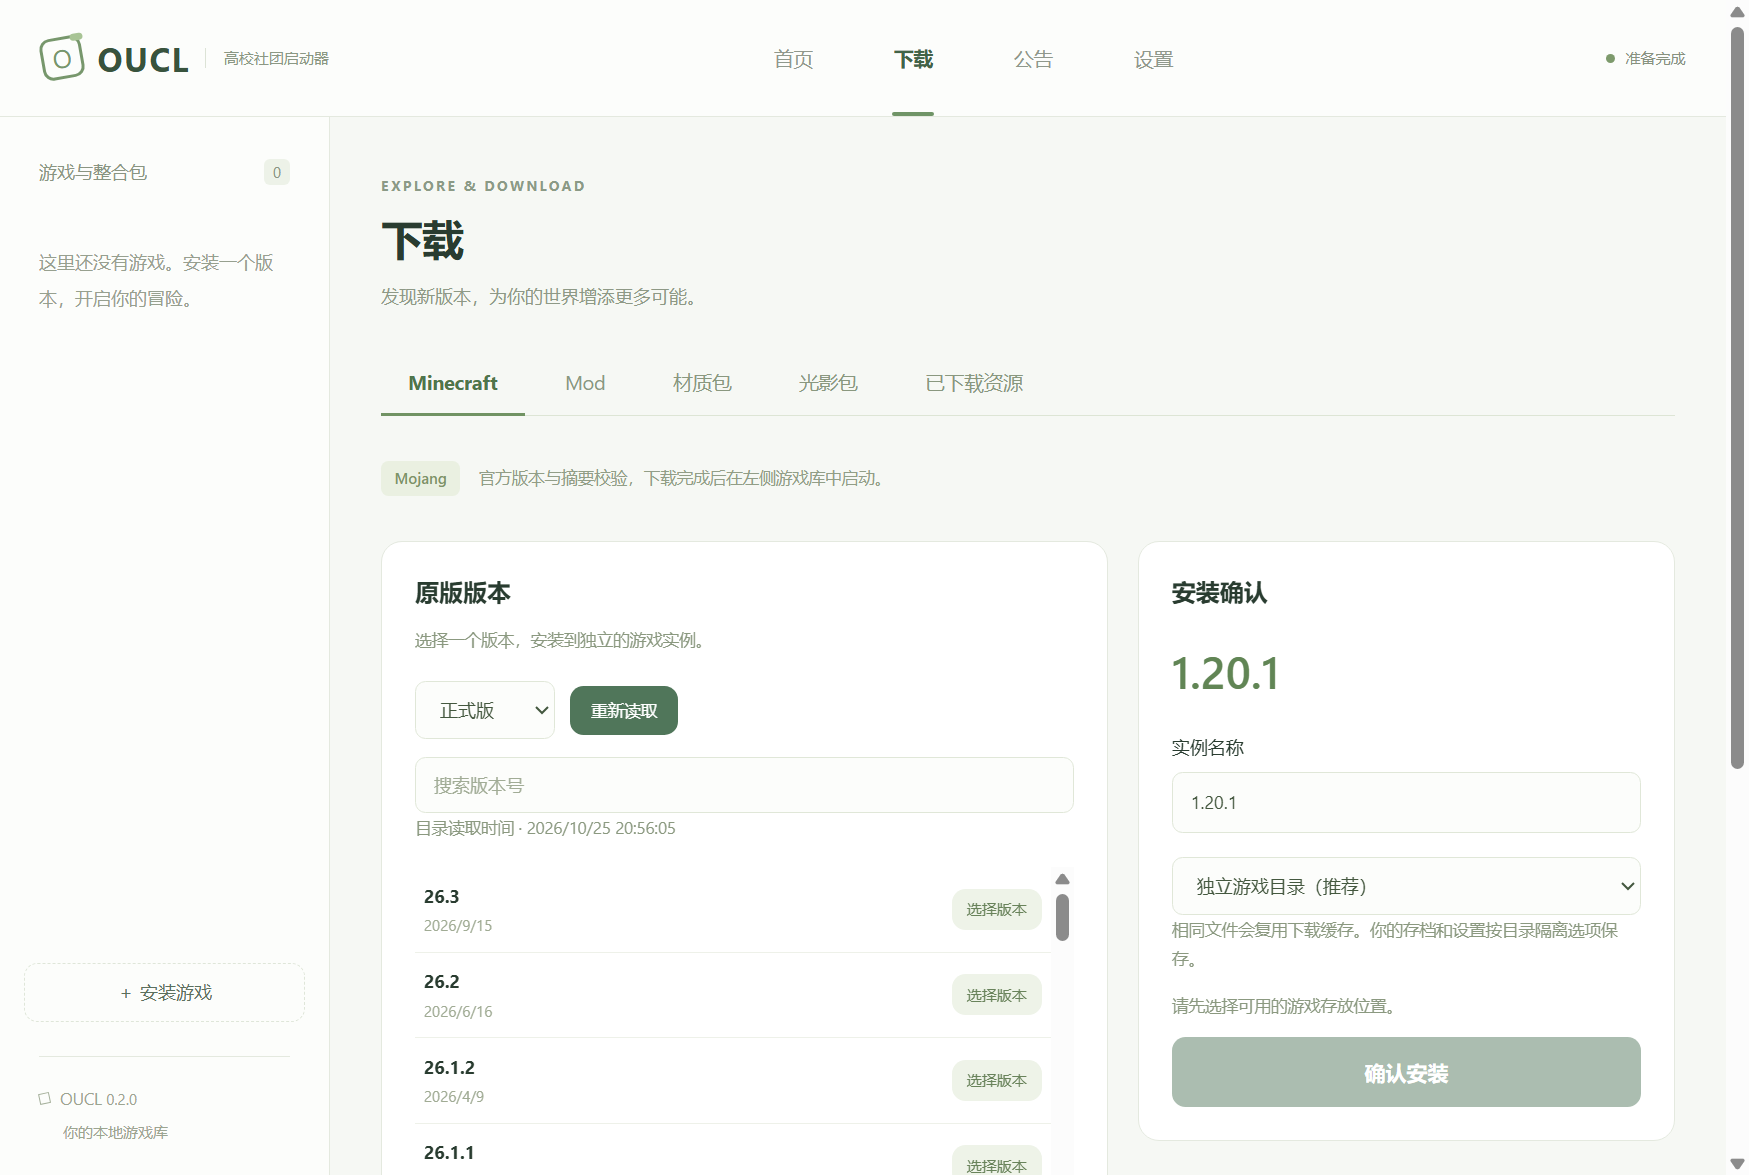
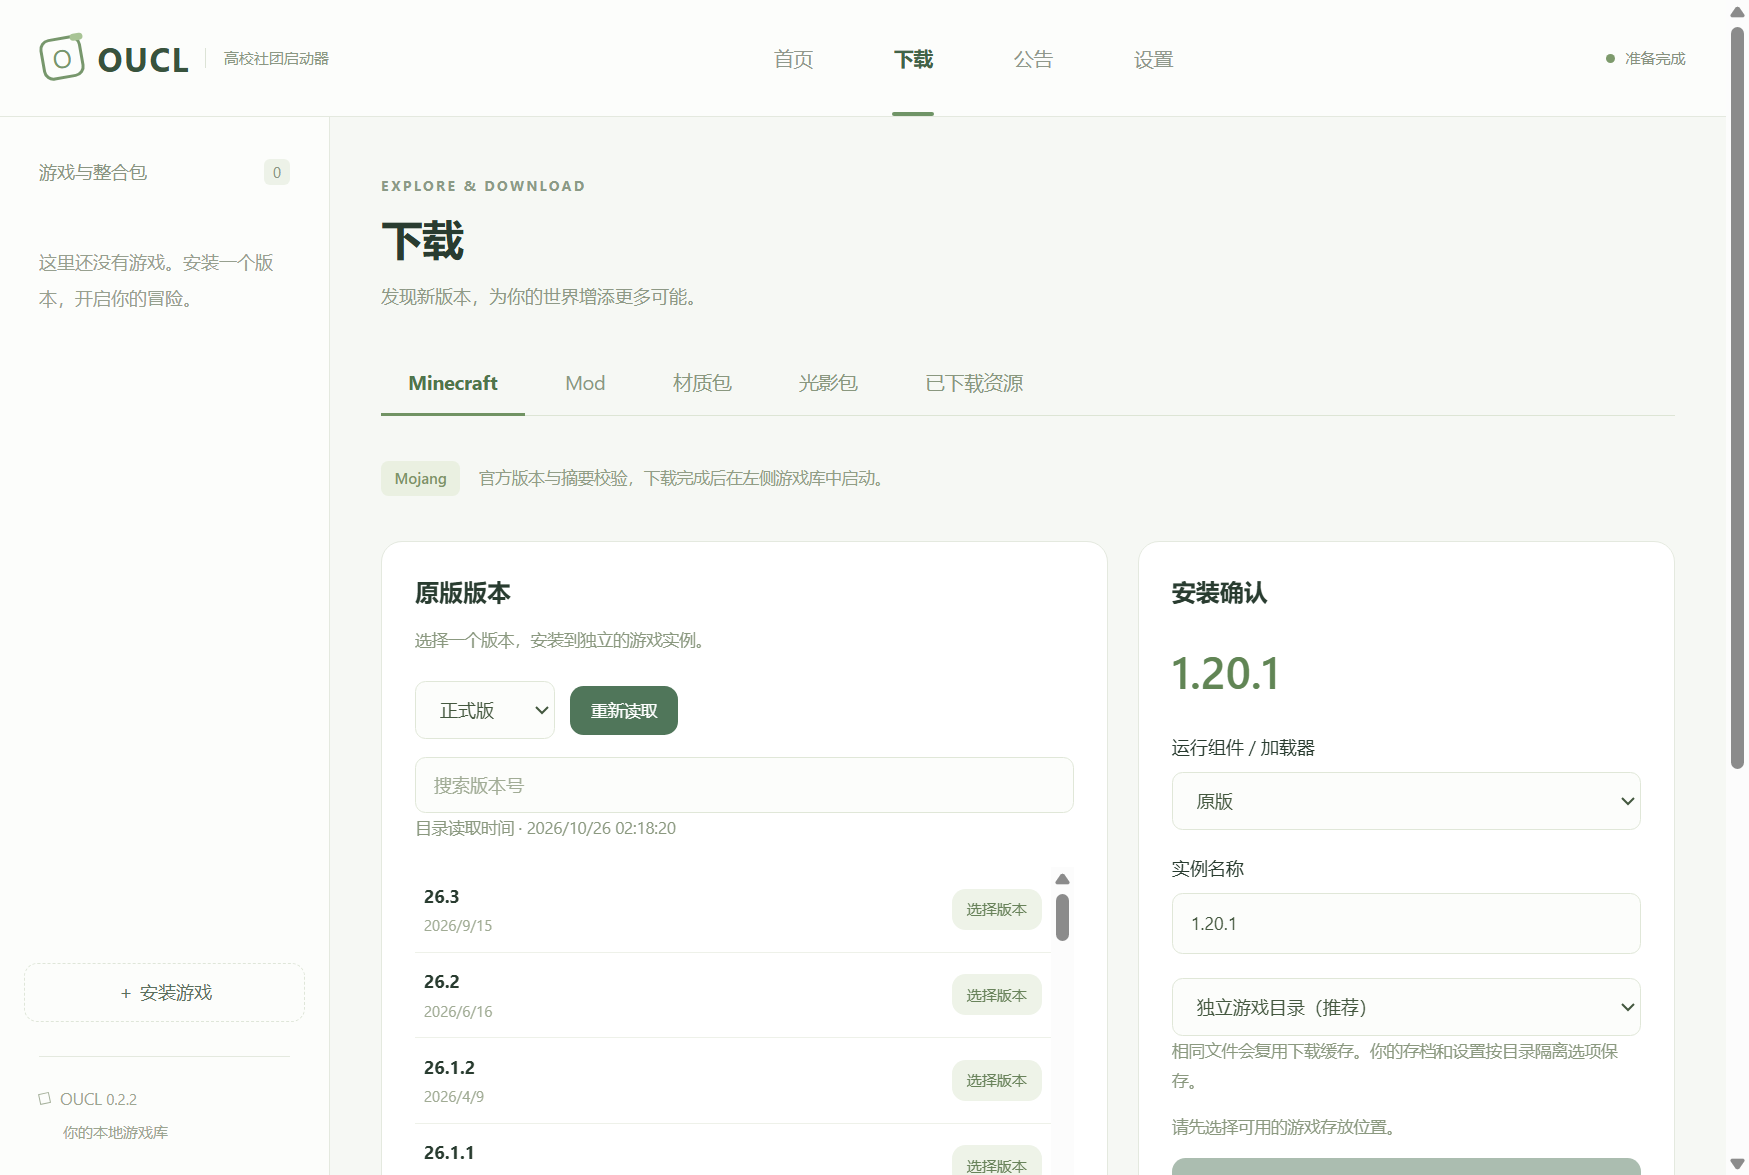
feat(ui): select Fabric and Quilt instances

Changed region(s): [[0.6484, 0.8272, 0.9571, 1.0], [0.6792, 0.674, 0.9262, 0.7966], [0.6792, 0.6128, 0.741, 0.6434]]

diff --git a/src/ui/App.tsx b/src/ui/App.tsx
@@ -32,6 +32,7 @@ export function App() {
   useEffect(() => { void state.refreshGame(); const timer = setInterval(() => { void state.refreshGame(); }, 2000); return () => { clearInterval(timer); }; }, [state.rootId, state.refreshGame]);
   const sessions = useGameSessions(has('game.v1'), state.rootId);
   const account = state.accounts.find(a => a.accountId === state.accountId); const instance = state.instances.find(i => i.instanceId === state.instanceId);
+  const loaderName = (id: string): string => { const value = state.instanceLoaders[id]; return !value || value.kind === 'vanilla' ? MESSAGES.uiVanilla : `${value.kind === 'fabric' ? 'Fabric' : value.kind === 'quilt' ? 'Quilt' : value.kind === 'forge' ? 'Forge' : 'NeoForge'} ${value.version}`; };
   const activeTasks = state.tasks.filter(t => !['completed', 'cancelled', 'failed', 'needsRecovery'].includes(t.state)).length;
   return <div className="app-shell">
     <header className="topbar"><div className="brand-lockup"><span className="brand-symbol">O<span /></span><strong>OUCL</strong><span className="brand-caption">{MESSAGES.uiBrandCaption}</span></div>
@@ -39,7 +40,7 @@ export function App() {
       <span className="status" role="status" data-status={status}><i />{MESSAGES[status]}</span></header>
     <div className="workspace"><aside className="sidebar"><div className="sidebar-heading"><span>{MESSAGES.uiGames}</span><span className="count">{state.instances.length}</span></div>
       <div className="sidebar-list">{state.instances.length === 0 ? <p className="sidebar-empty">{MESSAGES.uiNoGames}</p> : state.instances.map((item, index) => <button className="instance-item" aria-pressed={state.instanceId === item.instanceId} key={item.instanceId} data-instance-id={item.instanceId} onClick={() => { state.selectInstance(item.instanceId); state.setPage('home'); }}>
-        <span className={`instance-icon icon-${index % 3}`}>◈</span><span><strong>{item.displayName}</strong><small>{item.mcVersionId} · {item.state === 'ready' ? MESSAGES.stateReady : item.state === 'installing' ? MESSAGES.stateInstalling : item.state === 'needsRecovery' ? MESSAGES.stageRecovery : item.state === 'cancelled' ? MESSAGES.stageCancelled : MESSAGES.stageFailed}</small></span><span className="selected-dot" />
+        <span className={`instance-icon icon-${index % 3}`}>◈</span><span><strong>{item.displayName}</strong><small>{item.mcVersionId} · {loaderName(item.instanceId)} · {item.state === 'ready' ? MESSAGES.stateReady : item.state === 'installing' ? MESSAGES.stateInstalling : item.state === 'needsRecovery' ? MESSAGES.stageRecovery : item.state === 'cancelled' ? MESSAGES.stageCancelled : MESSAGES.stageFailed}</small></span><span className="selected-dot" />
       </button>)}</div>
       <button className="add-game secondary" onClick={() => { setDownloadTab('minecraft'); state.setPage('downloads'); }}>＋ {MESSAGES.uiInstallGame}</button>
       <div className="sidebar-bottom"><span className="tiny-square" /><span>OUCL <strong>0.2.2</strong></span><small>{MESSAGES.uiLocalLibrary}</small></div>
@@ -48,7 +49,7 @@ export function App() {
       {activeTasks > 0 && <button className="task-pill" onClick={() => { state.setPage('downloads'); }}>{activeTasks} {MESSAGES.uiActiveTasks}</button>}</div>
       {status === 'disconnected' && <p className="error-banner" role="alert">{MESSAGES.unavailable}</p>}
       <div hidden={state.page !== 'home'}><div className="home-layout"><section className="home-main"><div className="adventure-card"><div className="adventure-content"><span className="tag light">MINECRAFT JAVA EDITION</span><h2>{MESSAGES.uiAdventureTitle}</h2><p>{MESSAGES.uiAdventureSubtitle}</p></div><div className="landscape" aria-hidden="true"><i /><i /><i /><i /><span /></div></div>
-        <section className="panel selected-instance"><div className="section-heading"><h2>{MESSAGES.uiSelectedGame}</h2><span className="tag">{MESSAGES.uiVanilla}</span></div>
+        <section className="panel selected-instance"><div className="section-heading"><h2>{MESSAGES.uiSelectedGame}</h2><span className="tag">{instance ? loaderName(instance.instanceId) : MESSAGES.uiVanilla}</span></div>
           {instance ? <><h3>{instance.displayName}</h3><div className="instance-facts"><span><small>{MESSAGES.uiGameVersion}</small><strong>{instance.mcVersionId}</strong></span><span><small>{MESSAGES.uiIsolation}</small><strong>{instance.isolation === 'off' ? MESSAGES.uiShared : MESSAGES.uiIsolated}</strong></span></div><p className="muted small">{MESSAGES.uiReadyHint}</p></> : <div className="empty-state"><h3>{MESSAGES.uiStartHere}</h3><p>{MESSAGES.uiFirstInstall}</p><button onClick={() => { state.setPage(state.rootId ? 'downloads' : 'settings'); }}>{state.rootId ? MESSAGES.uiInstallGame : MESSAGES.chooseStorage}</button></div>}
         </section><button className="announcement-shortcut panel" onClick={() => { state.setPage('announcements'); }}><span className="notice-icon">◇</span><span><strong>{MESSAGES.uiAnnouncements}</strong><small>{MESSAGES.uiNoAnnouncements}</small></span><span>↗</span></button>
       </section><aside className="panel character-card"><div className="character-top"><span className="eyebrow">PLAYER PROFILE</span><span className="tag">{MESSAGES.uiOffline}</span></div><div className="avatar-stage"><Avatar /><div className="avatar-grid" /></div>
@@ -56,7 +57,7 @@ export function App() {
         {instance?.state === 'ready' ? <LaunchControls key={instance.instanceId} instance={instance} accountId={state.accountId} current={sessions.find(s => s.instanceId === instance.instanceId)} /> : <button className="primary" disabled>{MESSAGES.launchGame}</button>}
       </aside></div></div>
       <div hidden={state.page !== 'downloads'}><div className="tabs download-tabs">{(['minecraft', 'mod', 'resourcepack', 'shader', 'library'] as const).map(id => <button key={id} aria-pressed={downloadTab === id} onClick={() => { setDownloadTab(id); }}>{id === 'minecraft' ? 'Minecraft' : id === 'mod' ? MESSAGES.uiMods : id === 'resourcepack' ? MESSAGES.uiResourcepacks : id === 'shader' ? MESSAGES.uiShaders : MESSAGES.uiLibrary}</button>)}</div>
-        <div hidden={downloadTab !== 'minecraft'}><div className="download-note"><span className="source-badge">Mojang</span><p>{MESSAGES.uiVanillaDownloadHint}</p></div><div className="install-layout"><VersionCatalog enabled={has('catalog.v1')} selected={versionId} onSelect={setVersionId} /><InstallPanel enabled={has('instances.v1')} rootId={state.rootId} versionId={versionId} /></div></div>
+        <div hidden={downloadTab !== 'minecraft'}><div className="download-note"><span className="source-badge">Mojang</span><p>{MESSAGES.uiVanillaDownloadHint}</p></div><div className="install-layout"><VersionCatalog enabled={has('catalog.v1')} selected={versionId} onSelect={setVersionId} /><InstallPanel enabled={has('instances.v1')} loadersEnabled={has('loaders.v1')} rootId={state.rootId} versionId={versionId} /></div></div>
         <div hidden={downloadTab === 'minecraft'}><ResourceBrowser enabled={has('resources.v1') && state.page === 'downloads' && downloadTab !== 'minecraft'} kind={downloadTab === 'resourcepack' ? 'resourcepack' : downloadTab === 'shader' ? 'shader' : 'mod'} libraryOnly={downloadTab === 'library'} /></div>
       </div>
       <div hidden={state.page !== 'announcements'}><AnnouncementsPage /></div><div hidden={state.page !== 'settings'}><SettingsPage enabled={has('settings.v1')} rootsEnabled={has('roots.v1')} /></div>

diff --git a/src/ui/InstallPanel.tsx b/src/ui/InstallPanel.tsx
@@ -3,6 +3,7 @@ import { MESSAGES } from '../shared/locales/messages.js';
 import type { MessageKey } from '../shared/locales/messages.js';
 import type { InstallStage, TaskSnapshot } from '../shared/contracts/instances.js';
 import { useLauncher } from './launcher-state.js';
+import type { LoaderKind, LoaderVersionItem } from '../shared/contracts/loaders.js';
 
 const STAGE_MESSAGES: Record<InstallStage, MessageKey> = { metadata: 'stageMetadata', downloading: 'stageDownloading', materializing: 'stageMaterializing',
   committing: 'stageCommitting', completed: 'stageCompleted', failed: 'stageFailed', cancelled: 'stageCancelled', needsRecovery: 'stageRecovery', queued: 'stageQueued', preparing: 'stagePreparing' };
@@ -45,18 +46,31 @@ export function InstallTask({ initial, onSettled }: { initial: TaskSnapshot; onS
 }
 
 /** Connects the approved vanilla instance/task flow; all network, files and process work stays behind preload. */
-export function InstallPanel({ enabled, rootId, versionId }: { enabled: boolean; rootId: string | undefined; versionId: string | undefined }) {
+export function InstallPanel({ enabled, loadersEnabled, rootId, versionId }: { enabled: boolean; loadersEnabled: boolean; rootId: string | undefined; versionId: string | undefined }) {
   const { settings, tasks, refreshGame } = useLauncher();
   const [displayName, setDisplayName] = useState(''); const [isolation, setIsolation] = useState<'on' | 'off'>('on');
   const [busy, setBusy] = useState(false); const [error, setError] = useState<MessageKey>();
+  const [loader, setLoader] = useState<'vanilla' | Extract<LoaderKind, 'fabric' | 'quilt'>>('vanilla');
+  const [loaderVersions, setLoaderVersions] = useState<LoaderVersionItem[]>([]); const [loaderVersion, setLoaderVersion] = useState(''); const [loaderBusy, setLoaderBusy] = useState(false);
   const requestId = useRef<string | undefined>(undefined); const accepted = useRef(false);
   useEffect(() => { setDisplayName(versionId ?? ''); requestId.current = undefined; accepted.current = false; setError(undefined); }, [versionId]);
   useEffect(() => { setIsolation(settings?.isolationDefault === false ? 'off' : 'on'); }, [versionId, settings?.isolationDefault]);
+  useEffect(() => {
+    if (!window.oucl || !versionId || loader === 'vanilla' || !loadersEnabled) { setLoaderVersions([]); setLoaderVersion(''); setLoaderBusy(false); return; }
+    let active = true; setLoaderBusy(true); setError(undefined);
+    void window.oucl.loaderVersions({ minecraftVersion: versionId, loader }).then(result => {
+      if (!active) return;
+      if (result.ok) { setLoaderVersions(result.data.items); setLoaderVersion(result.data.items.find(item => item.stable)?.loaderVersion ?? result.data.items[0]?.loaderVersion ?? ''); }
+      else { setLoaderVersions([]); setLoaderVersion(''); setError(result.error.messageKey); }
+    }).catch(() => { if (active) setError('unavailable'); }).finally(() => { if (active) setLoaderBusy(false); });
+    return () => { active = false; };
+  }, [loader, loadersEnabled, versionId]);
   async function install(): Promise<void> {
     if (!window.oucl || !rootId || !versionId || busy || accepted.current) return;
     setBusy(true); setError(undefined); requestId.current ??= crypto.randomUUID();
     try {
-      const result = await window.oucl.createInstance(requestId.current, { rootId, mcVersionId: versionId, displayName: displayName.trim(), isolation });
+      const result = loader === 'vanilla' ? await window.oucl.createInstance(requestId.current, { rootId, mcVersionId: versionId, displayName: displayName.trim(), isolation })
+        : await window.oucl.createLoaderInstance(requestId.current, { rootId, minecraftVersion: versionId, loader, loaderVersion, displayName: displayName.trim(), isolation });
       if (!result.ok) { setError(result.error.messageKey); if (result.error.code !== 'TIMEOUT') requestId.current = undefined; return; }
       accepted.current = true; await refreshGame();
     } catch { setError('unavailable'); } finally { setBusy(false); }
@@ -64,10 +78,16 @@ export function InstallPanel({ enabled, rootId, versionId }: { enabled: boolean;
   if (!enabled) return null;
   return <div className="installation-column"><section className="card install-confirm" aria-labelledby="install-title"><h2 id="install-title">{MESSAGES.installTitle}</h2>
     {!versionId ? <div className="empty-state"><span className="empty-glyph">↓</span><p>{MESSAGES.installPrompt}</p></div> : <><div className="selected-version">{versionId}</div>
+      <label>{MESSAGES.uiLoader}<select value={loader} onChange={event => { setLoader(event.target.value as typeof loader); requestId.current = undefined; accepted.current = false; }}>
+        <option value="vanilla">{MESSAGES.uiVanilla}</option>{loadersEnabled && <><option value="fabric">Fabric</option><option value="quilt">Quilt</option></>}
+      </select></label>
+      {loader !== 'vanilla' && <label>{MESSAGES.loaderVersion}<select value={loaderVersion} disabled={loaderBusy || loaderVersions.length === 0} onChange={event => { setLoaderVersion(event.target.value); requestId.current = undefined; accepted.current = false; }}>
+        {loaderVersions.map(item => <option key={item.loaderVersion} value={item.loaderVersion}>{item.loaderVersion}{item.stable ? ` · ${MESSAGES.loaderStable}` : ''}</option>)}
+      </select></label>}
       <label>{MESSAGES.instanceName}<input value={displayName} maxLength={80} onChange={event => { setDisplayName(event.target.value); requestId.current = undefined; accepted.current = false; }} /></label>
       <select aria-label={MESSAGES.isolationOn} value={isolation} onChange={event => { setIsolation(event.target.value as 'on' | 'off'); requestId.current = undefined; accepted.current = false; }}><option value="on">{MESSAGES.isolationOn}</option><option value="off">{MESSAGES.isolationOff}</option></select>
       <p className="storage-note">{MESSAGES.installHint}</p>{!rootId && <p>{MESSAGES.chooseRootFirst}</p>}
-      <button className="primary" disabled={busy || !rootId || !displayName.trim() || accepted.current} onClick={() => { void install(); }}>{busy ? MESSAGES.installAccepting : MESSAGES.installConfirm}</button>
+      <button className="primary" disabled={busy || loaderBusy || !rootId || !displayName.trim() || accepted.current || loader !== 'vanilla' && !loaderVersion} onClick={() => { void install(); }}>{busy || loaderBusy ? MESSAGES.installAccepting : MESSAGES.installConfirm}</button>
     </>}{error && <p className="form-error" role="alert">{MESSAGES[error]}</p>}</section>
     {tasks.some(t => t.kind === 'install') && <section className="card"><h2>{MESSAGES.tasksTitle}</h2>{tasks.filter(t => t.kind === 'install').slice(-6).map(task => <InstallTask key={task.taskId} initial={task} onSettled={refreshGame} />)}</section>}
   </div>;

diff --git a/src/ui/launcher-state.ts b/src/ui/launcher-state.ts
@@ -1,6 +1,7 @@
 import { create } from 'zustand';
 import type { AccountSummary, SettingsSummary } from '../shared/contracts/profiles.js';
 import type { InstanceSummary, TaskSnapshot } from '../shared/contracts/instances.js';
+import type { InstanceLoaderIdentity } from '../shared/contracts/instances-v2.js';
 import type { MessageKey } from '../shared/locales/messages.js';
 
 export type Page = 'home' | 'downloads' | 'announcements' | 'settings';
@@ -8,6 +9,7 @@ interface LauncherState {
   page: Page; setPage(page: Page): void; rootId: string | undefined; setRoot(rootId: string | undefined): void;
   accounts: AccountSummary[]; accountId: string | undefined; selectAccount(id: string | undefined): void;
   instances: InstanceSummary[]; instanceId: string | undefined; selectInstance(id: string): void;
+  instanceLoaders: Record<string, InstanceLoaderIdentity>;
   tasks: TaskSnapshot[]; settings: SettingsSummary | undefined; error: MessageKey | undefined;
   refreshProfiles(): Promise<void>; refreshGame(): Promise<void>; refreshSettings(): Promise<void>;
 }
@@ -15,9 +17,9 @@ let refreshing = false;
 /** Shared renderer projections survive navigation. IO remains behind the narrow preload bridge. */
 export const useLauncher = create<LauncherState>((set, get) => ({
   page: 'home', setPage: page => { set({ page }); }, rootId: undefined,
-  setRoot: rootId => { if (rootId !== get().rootId) set({ rootId, instances: [], instanceId: undefined, tasks: [] }); },
+  setRoot: rootId => { if (rootId !== get().rootId) set({ rootId, instances: [], instanceLoaders: {}, instanceId: undefined, tasks: [] }); },
   accounts: [], accountId: undefined, selectAccount: accountId => { set({ accountId }); },
-  instances: [], instanceId: undefined, selectInstance: instanceId => { set({ instanceId }); }, tasks: [], settings: undefined, error: undefined,
+  instances: [], instanceLoaders: {}, instanceId: undefined, selectInstance: instanceId => { set({ instanceId }); }, tasks: [], settings: undefined, error: undefined,
   refreshProfiles: async () => {
     if (!window.oucl) return; const result = await window.oucl.listAccounts();
     if (result.ok) set({ accounts: result.data.items, accountId: result.data.items.some(a => a.accountId === get().accountId) ? get().accountId : result.data.items[0]?.accountId }); else set({ error: result.error.messageKey });
@@ -26,9 +28,10 @@ export const useLauncher = create<LauncherState>((set, get) => ({
   refreshGame: async () => {
     const rootId = get().rootId; if (!window.oucl || !rootId || refreshing) return; refreshing = true;
     try {
-      const [listed, tasks] = await Promise.all([window.oucl.listInstances({ rootId, limit: 100 }), window.oucl.listTasks({ limit: 100 })]);
+      const [listed, enhanced, tasks] = await Promise.all([window.oucl.listInstances({ rootId, limit: 100 }), window.oucl.listInstancesV2(rootId), window.oucl.listTasks({ limit: 100 })]);
       if (get().rootId !== rootId) return;
       if (listed.ok) set({ instances: listed.data.items, instanceId: listed.data.items.some(i => i.instanceId === get().instanceId) ? get().instanceId : listed.data.items.find(i => i.state === 'ready')?.instanceId ?? listed.data.items[0]?.instanceId });
+      if (enhanced.ok) set({ instanceLoaders: Object.fromEntries(enhanced.data.items.map(item => [item.instanceId, item.loader])) });
       if (tasks.ok) set({ tasks: tasks.data.items });
     } catch { set({ error: 'unavailable' }); } finally { refreshing = false; }
   },

diff --git a/src/shared/locales/messages.ts b/src/shared/locales/messages.ts
@@ -52,6 +52,8 @@ export const MESSAGES = {
   uiSearchResources: '搜索资源名称',
   uiLoader: '运行组件 / 加载器',
   uiAllLoaders: '全部运行组件',
+  loaderVersion: '加载器版本',
+  loaderStable: '稳定版',
   uiSearch: '搜索',
   uiDiscover: '发现资源',
   uiResults: '项结果',
